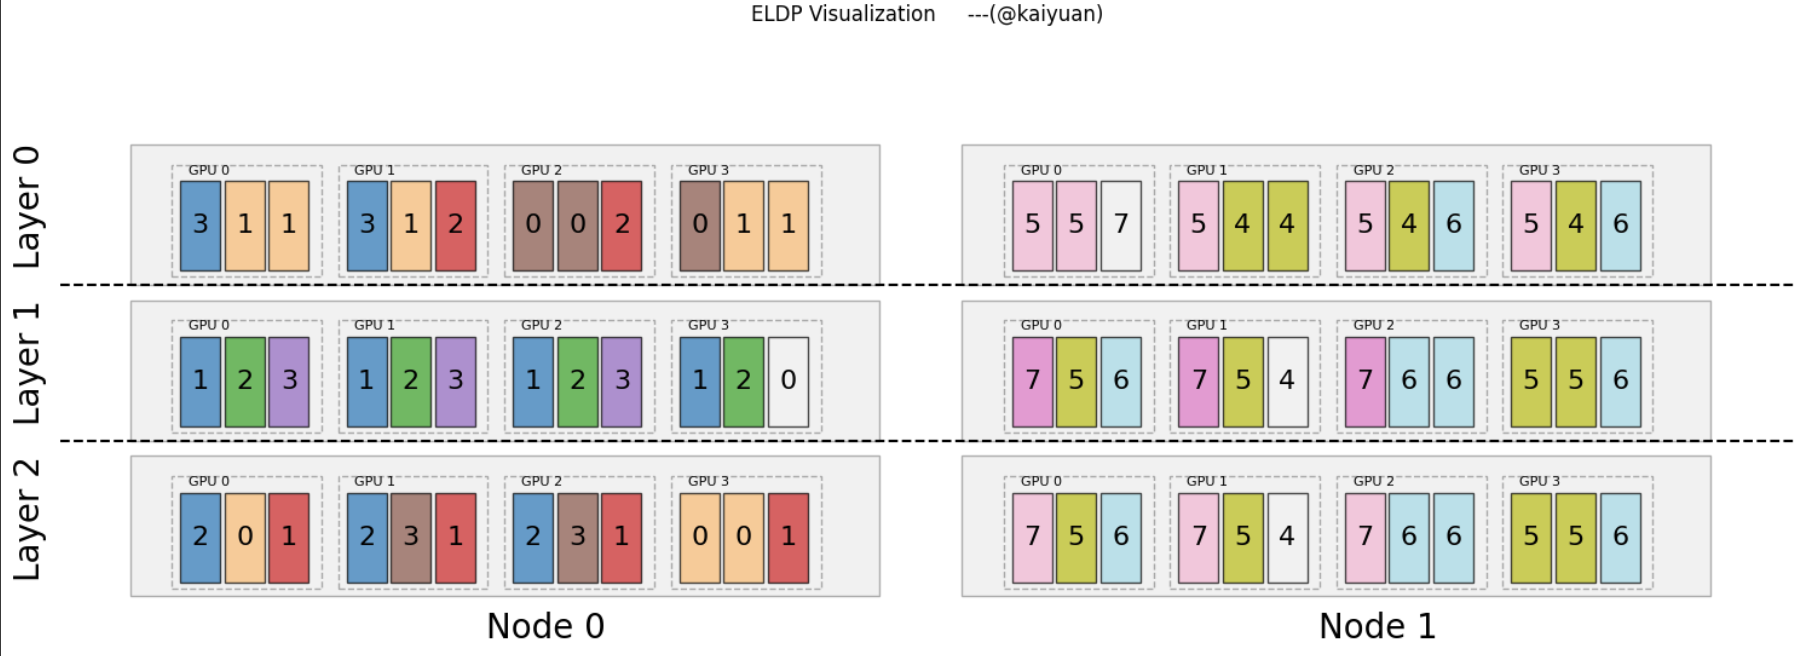
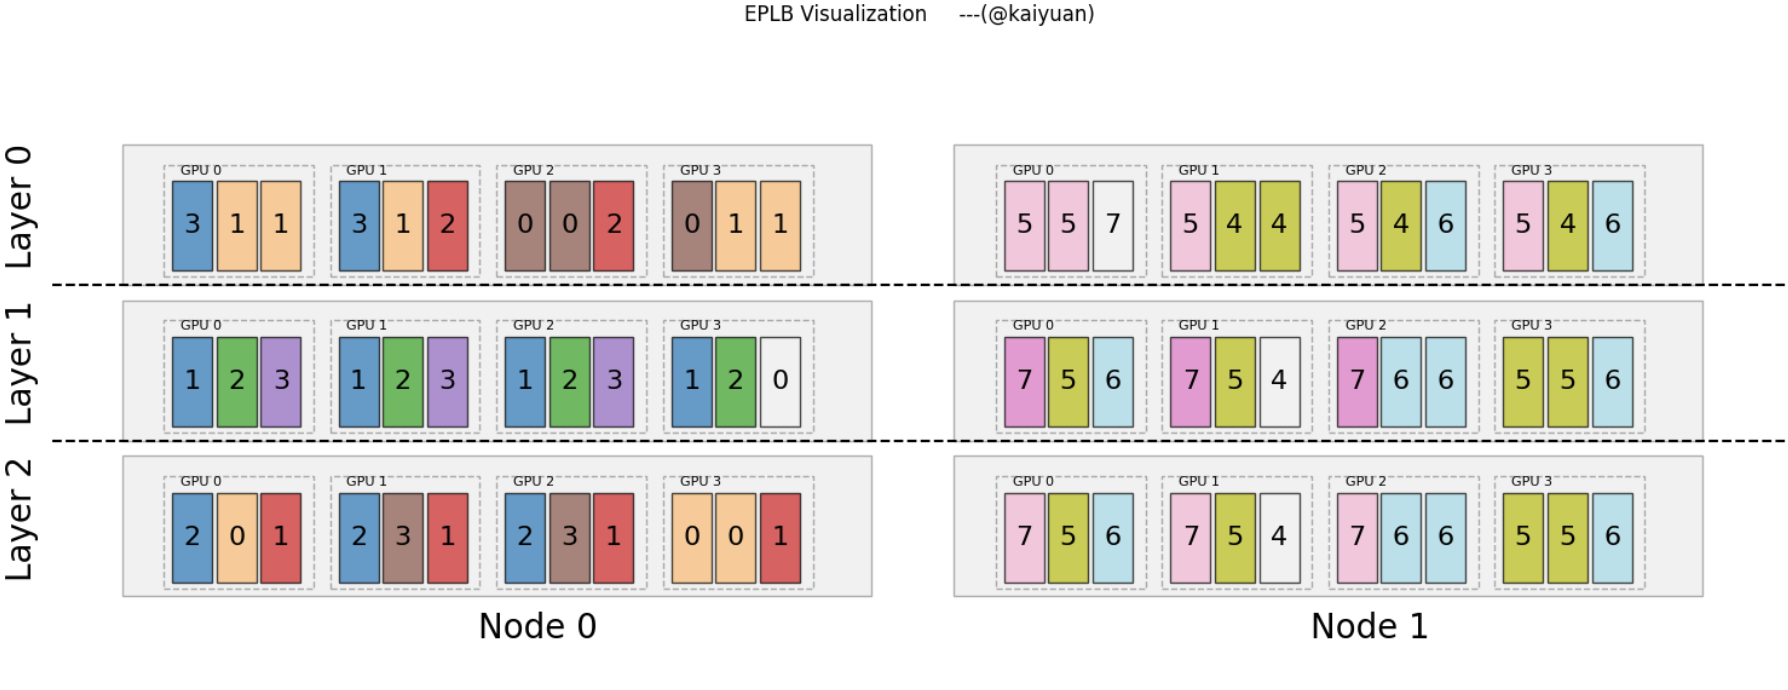
update readme image.

Changed region(s): [[0.0, 0.1829, 1.0, 0.9756], [0.3999, 0.0, 0.6152, 0.0305]]

diff --git a/visual_tool.py b/visual_tool.py
@@ -122,7 +122,7 @@ def visualize_4d_array(arr):
     plt.xlim(-0.5, total_width)
     plt.ylim(-0.5, dim0 * cell_height + 0.5)
     plt.axis('off')
-    plt.title('ELDP Visualization     ---(@kaiyuan)')
+    plt.title('EPLB Visualization     ---(@kaiyuan)')
 
     plt.tight_layout()
     plt.show()
